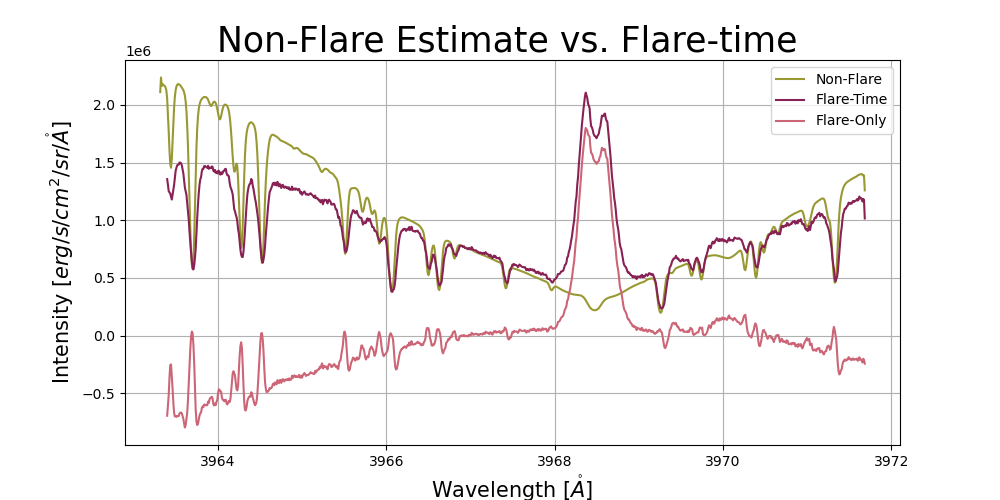
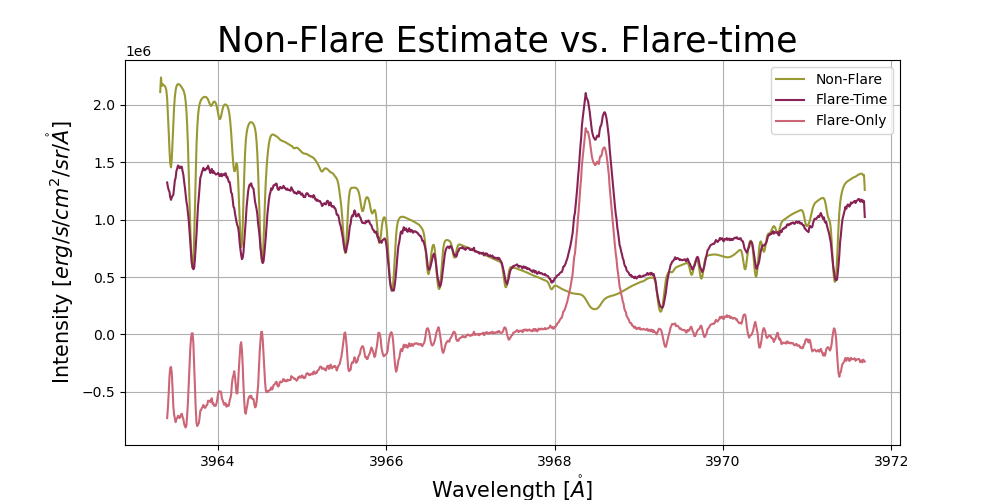
VBI metadata script

diff --git a/WORKING_SOURCE/VBI_metadata.py b/WORKING_SOURCE/VBI_metadata.py
@@ -1,0 +1,122 @@
+#!/usr/bin/env python3
+# -*- coding: utf-8 -*-
+"""
+Created on Thu July 2 2026
+
+@author: coletamburri
+"""
+
+import numpy as np
+import matplotlib.pyplot as plt
+from datetime import datetime, timedelta
+from astropy.io import fits
+import os
+import pandas as pd
+
+
+pid='2_11'
+vbifold = '/Volumes/ViSP_External/pid_'+pid+'_VBI/'
+vbiexp = 'CNFRML' # 8 August 2024 X-class 
+
+file = '/VBI_2024_08_08T20_12_32_333333_00656282_I_CNFRML_L1.fits' # 11 August 2024 X-class
+savfold='/Users/coletamburri/Desktop/DKIST_Code/VBI_Destretching/'+vbiexp+'/'
+filt = 'Halpha'
+
+xtraflag = 'X_class_8_Aug_2024_Halpha_3_273'
+hdu_list = fits.open(vbifold+vbiexp+file)
+image=hdu_list[1].data[0,:,:]
+
+tileSizeInput = [128, 64, 48, 24]  # original from FW
+
+if os.path.isdir(savfold)==False:
+    os.mkdir(savfold)
+
+dir_list = os.listdir(vbifold+vbiexp)
+dir_list.sort()
+
+loc_files=dir_list[3:273]
+
+# load header for first file
+
+firstfile = fits.open(vbifold+'/'+vbiexp+'/'+loc_files[0])
+
+header = firstfile[1].header
+
+# make time array
+
+t_vbi = []
+
+for i in range(len(loc_files)):
+
+    filename = loc_files[i]
+    
+    year = int(filename[-52:-48])
+    month = int(filename[-47:-45])
+    day = int(filename[-44:-42])
+    
+    hh1 = int(filename[-41:-39])
+    mm1 = int(filename[-38:-36])
+    ss1 = int(filename[-35:-33])
+    ms1 = int(filename[-32:-26])
+
+    time = datetime(year,month,day,hh1,mm1,ss1,ms1)
+    t_vbi.append(time)
+    
+
+# make reported HPC arrays
+
+xnum = np.shape(firstfile[1].data)[1]
+ynum = np.shape(firstfile[1].data)[2]
+
+x_mid = header['CRVAL1']
+y_mid = header['CRVAL2']
+
+x_delt = 0.017#header['CDELT1']
+y_delt = 0.017#header['CDELT2']
+
+x_HPC = np.arange(x_mid-x_delt*(xnum/2),x_mid+x_delt*((xnum/2)-1),x_delt)
+y_HPC = np.arange(y_mid-y_delt*(ynum/2),y_mid+y_delt*((ynum/2)-1),y_delt)
+
+# make generalized pixel arrays
+
+x_pix = np.arange(0,4096)
+y_pix = np.arange(0,4096)
+
+# make generalized arcsec arrays
+
+x_arcsec = 0.017*x_pix
+y_arcsec = 0.017*x_pix
+
+# make spatial coords pandas df
+
+space_dict = {
+    'x_pix_DKIST': x_pix,
+    'y_pix_DKIST': y_pix,
+    'x_rel_DKIST [arcsec]': x_arcsec,
+    'y_rel_DKIST [arcsec]': y_arcsec,
+    'x_HPC_DKIST [arcsec]': x_HPC,
+    'y_HPC_DKIST [arcsec]': y_HPC,
+}
+
+df_space = pd.DataFrame(space_dict)
+
+# make time coords pandas df
+
+time_dict = {
+    'time_VBI': t_vbi}
+
+df_time = pd.DataFrame(time_dict)
+
+# save space to file
+spacefilename = '/Users/coletamburri/Desktop/DKIST_space_8_8_2024_20_12_32_3333_6563_I.txt'
+df_space.to_csv(spacefilename, index=False)
+
+# save time to file
+timefilename = '/Users/coletamburri/Desktop/DKIST_times_8_8_2024_20_12_32_to_20_24_30.csv'
+df_time.to_csv(timefilename, index=False)
+
+# save header to file
+
+headerfilename = '/Users/coletamburri/Desktop/DKIST_header_8_8_2024_20_12_32_3333_6563_I.txt'
+header.totextfile(headerfilename, overwrite=True)
+

diff --git a/WORKING_SOURCE/destretch_histmatch.py b/WORKING_SOURCE/destretch_histmatch.py
@@ -29,23 +29,26 @@ pid='2_11'
 vbifold = '/Volumes/ViSP_External/pid_'+pid+'_VBI/'
 # vbiexp ='BXWNO' # 19 August 2022
 #vbiexp = 'BDJKM' # 11 August 2024 M-class
-vbiexp = 'MBVIDS' # 11 August 2024 C-class with new ID
+# vbiexp = 'MBVIDS' # 11 August 2024 C-class with new ID
 
 #vbiexp = 'AKDKX' # 11 August 2024 C-class
 #vbiexp = 'AZLRR' # 8 August 2024 X-class blue continuum
 # vbiexp = 'AWYMX' # 8 August 2024 M-class
 #vbiexp= 'DXHIEL' # 11 August 2024 in blue continuum
 
+vbiexp = 'CNFRML' # 8 August 2024 X-class 
+
 # file = '/VBI_2022_08_19T20_42_07_333_00656282_I_BXWNO_L1.fits' # 19 August 2022
-#file = '/VBI_2024_08_08T20_12_32_333333_00656282_I_AXXJL_L1.fits' # 11 August 2024 M-class
+file = '/VBI_2024_08_08T20_12_32_333333_00656282_I_CNFRML_L1.fits' # 11 August 2024 X-class
 #file = '/VBI_2024_08_11T20_12_34_333333_00450400_I_AZLRR_L1.fits'
 #file = '/VBI_2024_08_11T22_23_34_333333_00656282_I_AKDKX_L1.fits'
-file = '/VBI_2024_08_11T22_23_34_333333_00656282_I_MBVIDS_L1.fits'
+# file = '/VBI_2024_08_11T22_23_34_333333_00656282_I_MBVIDS_L1.fits'
 savfold='/Users/coletamburri/Desktop/DKIST_Code/VBI_Destretching/'+vbiexp+'/'
 #filt='H_alpha'
 filt = 'Halpha'
-xtraflag = 'C_class_impulsive_phase_Halpha_50_350'
+# xtraflag = 'C_class_impulsive_phase_Halpha_50_350'
 
+xtraflag = 'X_class_8_Aug_2024_Halpha_3_273'
 hdu_list = fits.open(vbifold+vbiexp+file)
 image=hdu_list[1].data[0,:,:]
 
@@ -71,7 +74,8 @@ dir_list.sort()
 dataCube=[]
 
 # here define times.
-loc_files=dir_list[50:350] # destretching with pre-flare
+# loc_files=dir_list[50:350] # destretching with pre-flare - C class 11 Aug 2024
+loc_files=dir_list[3:273]
 
 lowx=0
 highx=-1

diff --git a/WORKING_SOURCE/flare_kmeans_script.py b/WORKING_SOURCE/flare_kmeans_script.py
@@ -15,7 +15,7 @@ from nltk.cluster import KMeansClusterer
 import nltk
 
 ## KEYWORDS FOR RUN
-read_in = 1 # if =0, will recalculate kmeans; if =1, will read-in from previous save
+read_in = 0 # if =0, will recalculate kmeans; if =1, will read-in from previous save
 full_scan_qs = 0 # if =1, subtract the pre-flare sun pixel-by-pixel
                  # if 0, subtract averaged "non-flare" from all pixels
 adjust='no' # if 'no', sorts clusters by weighted mean (or other choice); otherwise
@@ -909,6 +909,8 @@ for i in range(len(dfsorted)):
 # ax.axhline(396.85,color='black',linestyle='--')
 
 # fig.show()
+
+    
 
 
 